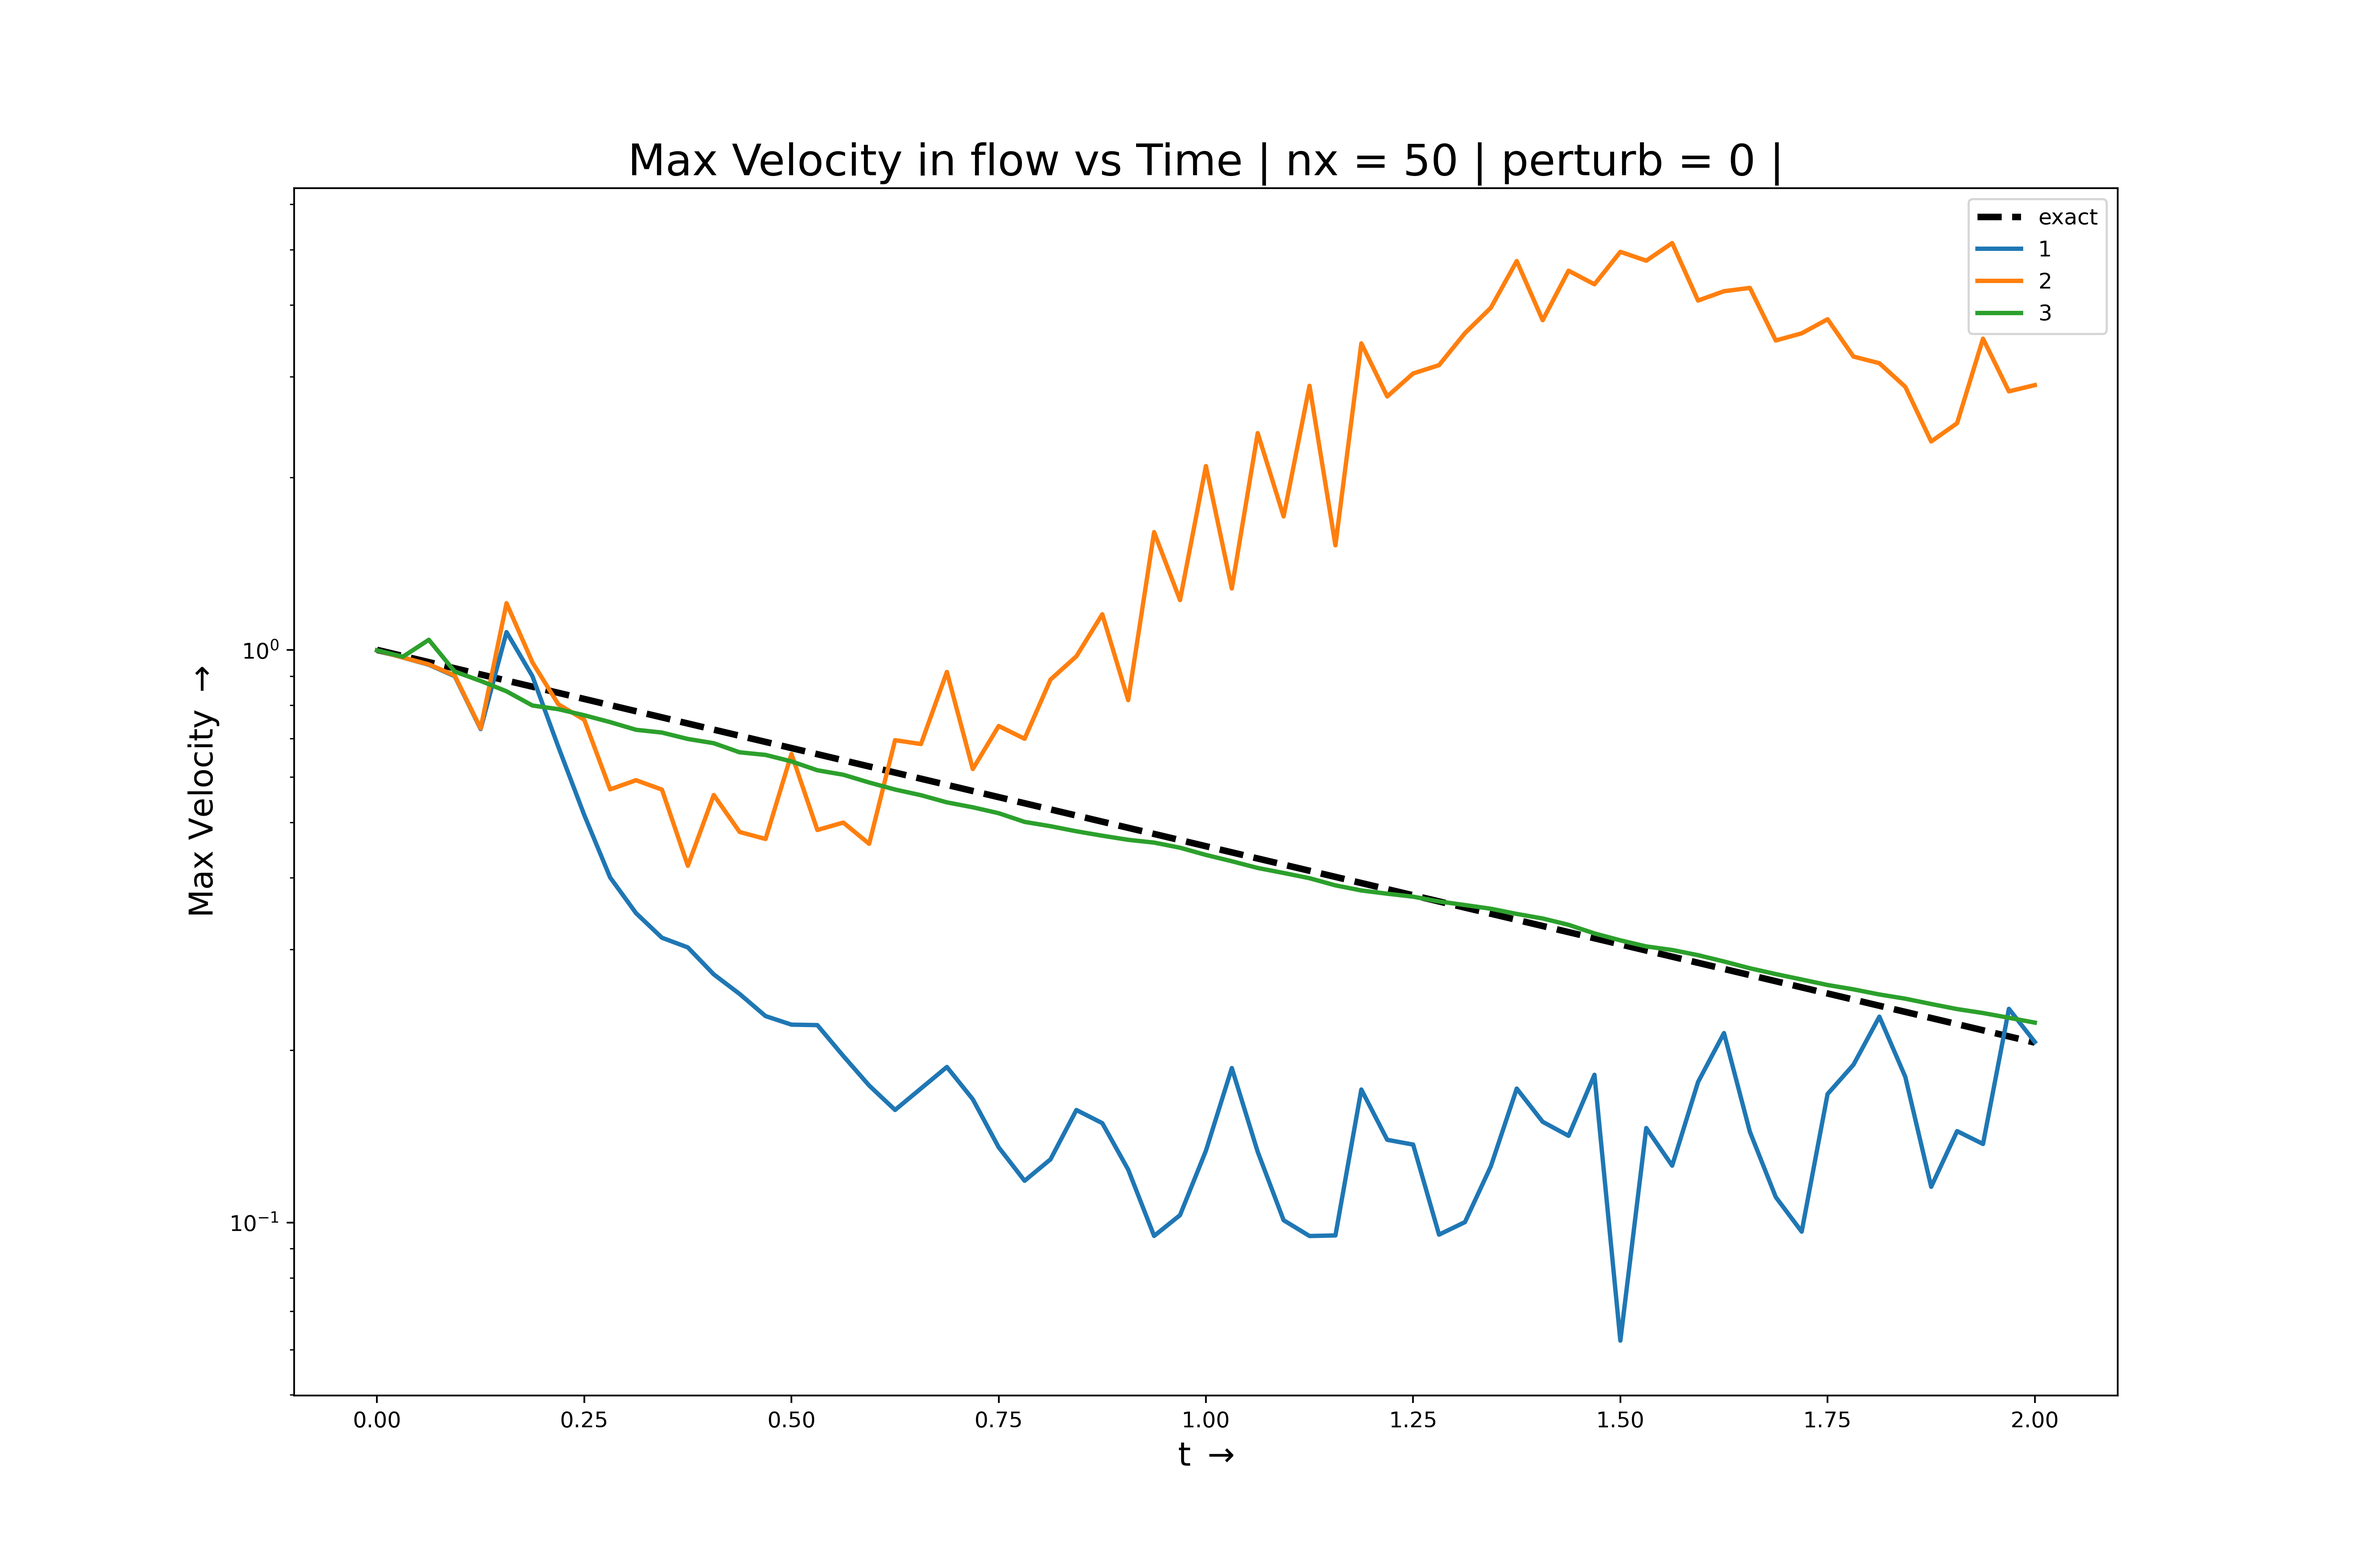
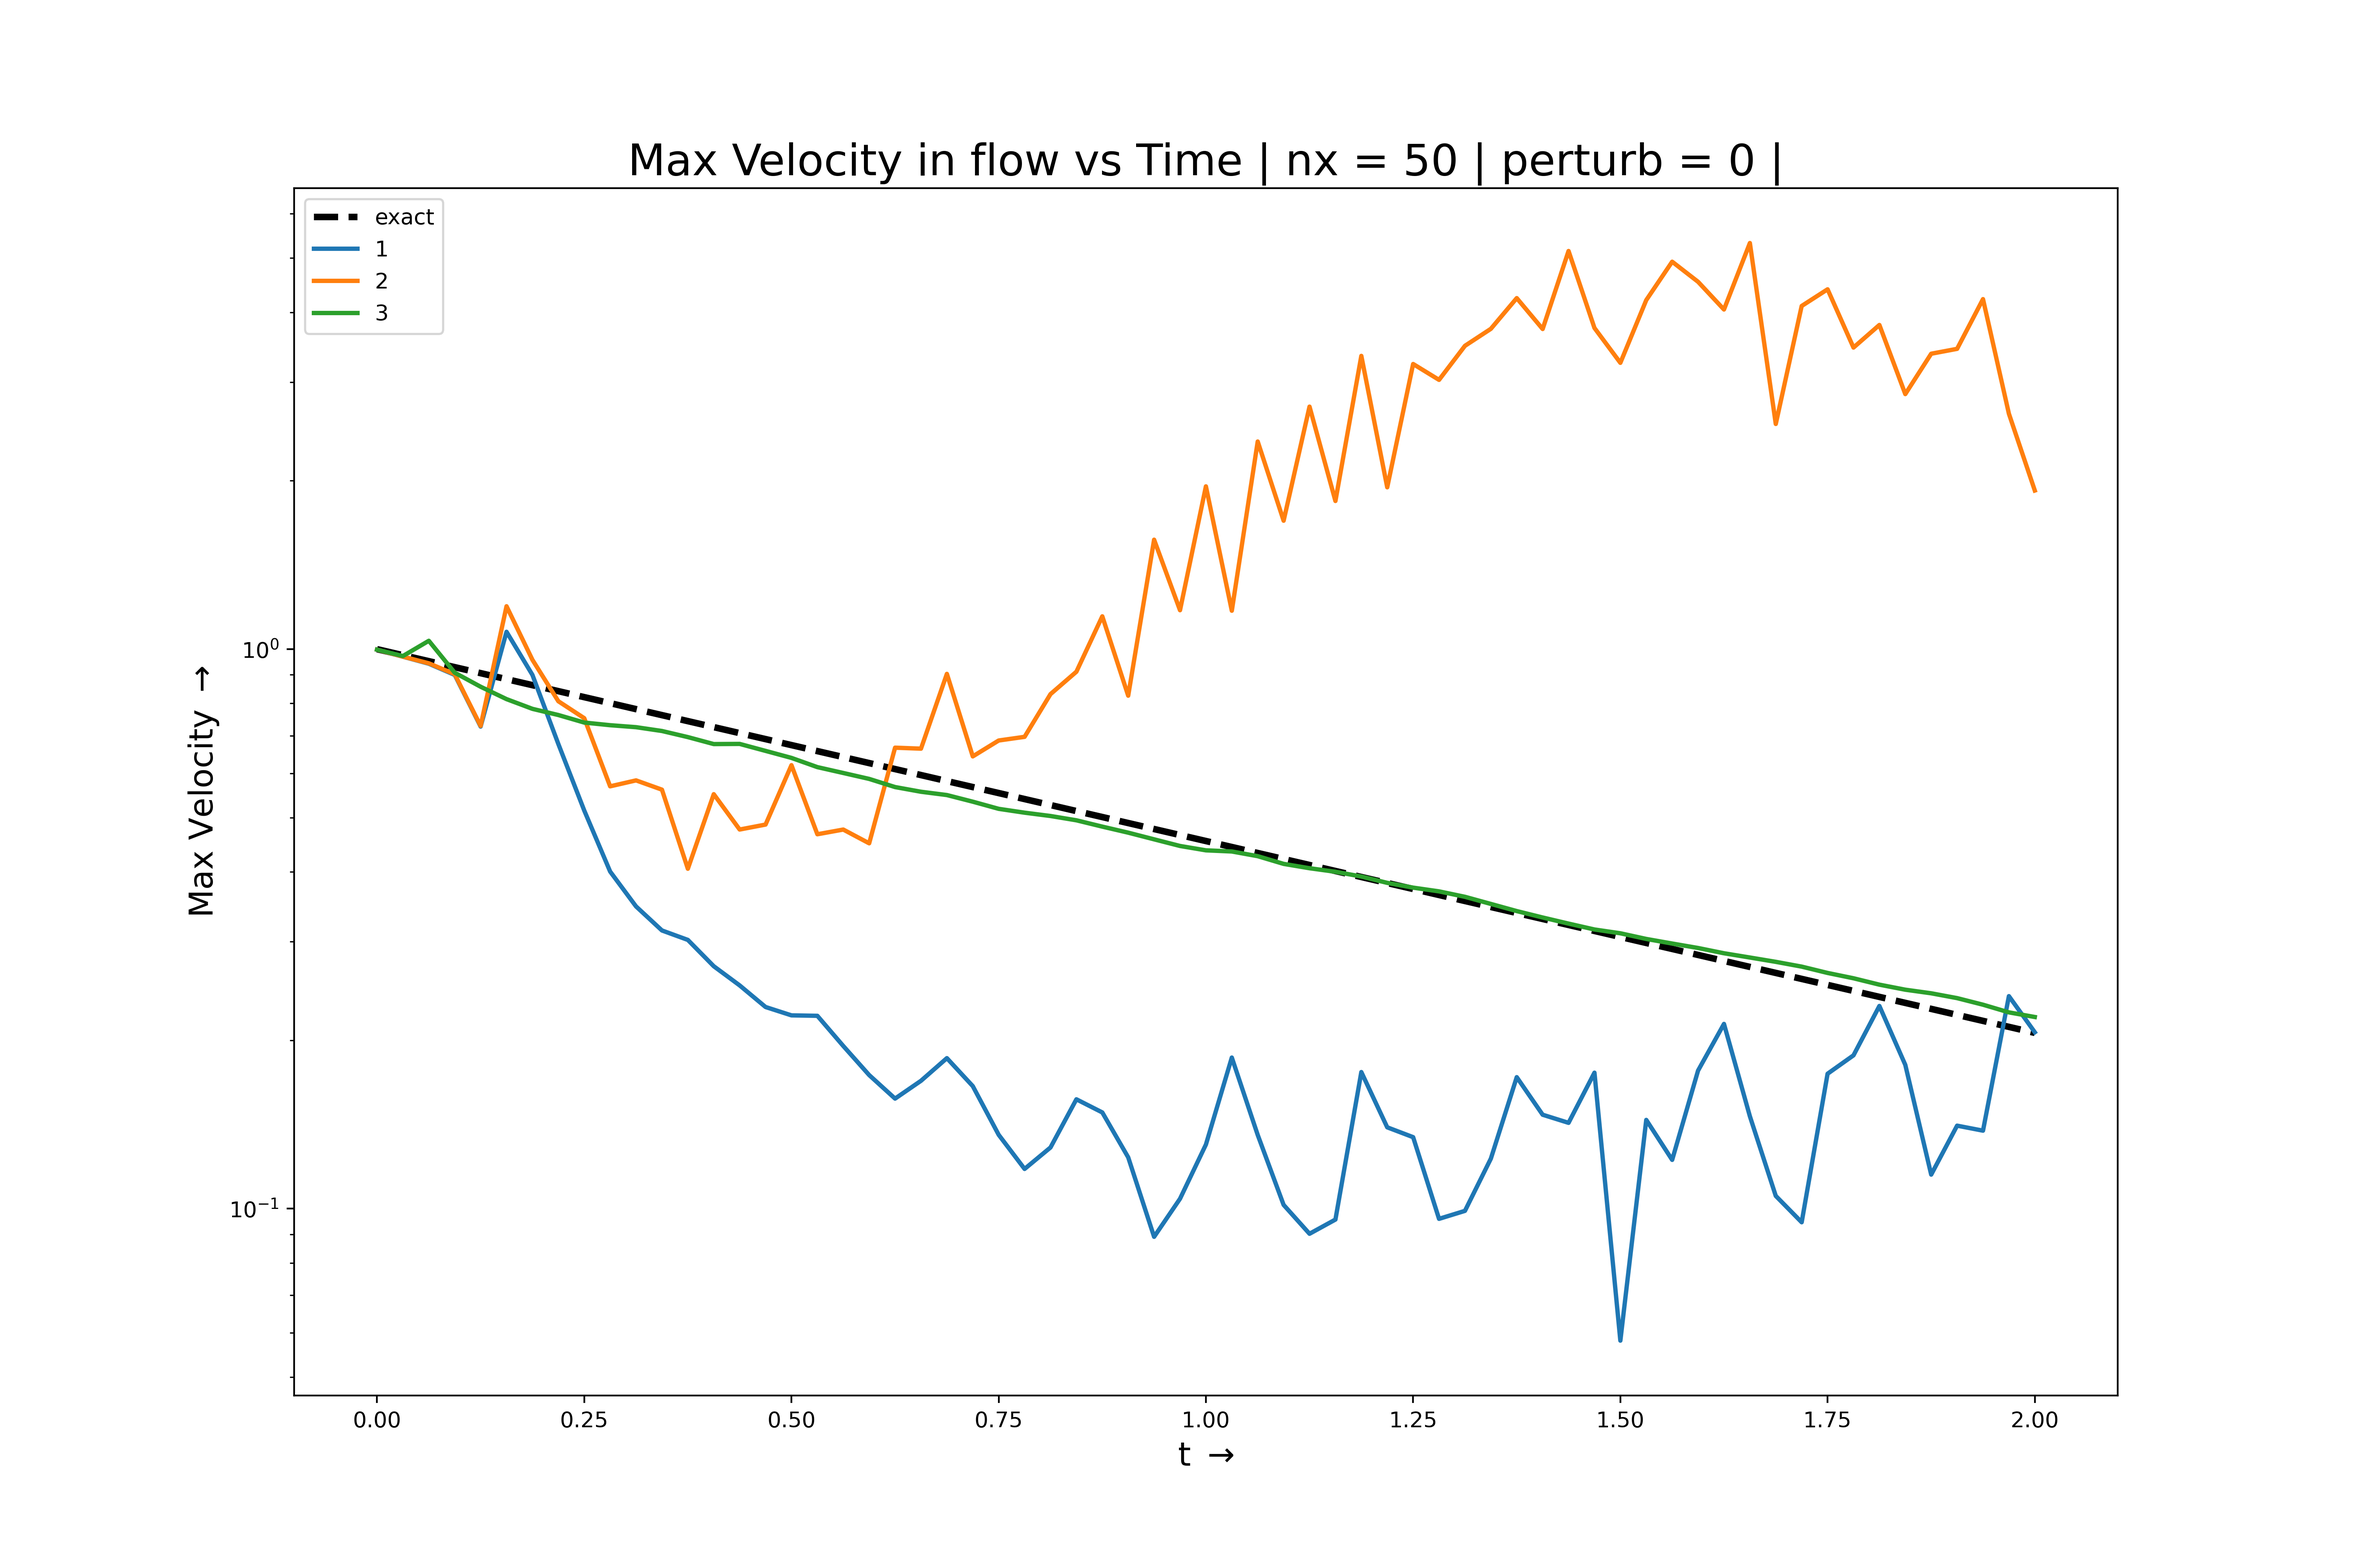
UPDATE: ------------- 1. Fix L_1 error for P plots

diff --git a/SLP/Taylor Green Vortex/Taylor_Green_3.py b/SLP/Taylor Green Vortex/Taylor_Green_3.py
@@ -12,11 +12,12 @@ from pysph.solver.solver import Solver
 
 # PySPH sph imports
 from pysph.sph.equation import Equation, Group, MultiStageEquations
+from pysph.sph.wc.edac import ComputeAveragePressure
 
 # Numpy import
+from numpy import cos, sin, exp, pi
 import numpy as np
 import os
-pi = np.pi
 
 # Include path
 import sys
@@ -39,11 +40,11 @@ from SLP.dpsph.integrator import EulerIntegrator_DPSPH, EulerStep_DPSPH
 
 # Exact Solution - Taylor Green Vortex
 def exact_solution(U, b, t, x, y):
-    factor = U * np.exp(b*t)
+    factor = U * exp(b*t)
 
-    u = -np.cos(2*pi*x) * np.sin(2*pi*y)
-    v = np.sin(2*pi*x) * np.cos(2*pi*y)
-    p = -0.25 * (np.cos(4*pi*x) + np.cos(4*pi*y))
+    u = -cos(2*pi*x) * sin(2*pi*y)
+    v = sin(2*pi*x) * cos(2*pi*y)
+    p = -0.25 * (cos(4*pi*x) + cos(4*pi*y))
 
     return factor * u, factor * v, factor * factor * p
 
@@ -58,11 +59,11 @@ class Taylor_Green(Application):
 
         # Simulation Parameters
         self.nx = 50
-        self.perturb = 0 # Perturbation factor
+        self.perturb = 0.2 # Perturbation factor
         self.re = 100.0
         self.U = 1.0
         self.L = 1.0
-        self.rho0 = 1000.0
+        self.rho0 = 1
 
         self.c0 = 15.0
         self.hdx = 1.0
@@ -214,7 +215,6 @@ class Taylor_Green(Application):
     def _get_sph_evaluator(self, array):
         if not hasattr(self, '_sph_eval'):
             from pysph.tools.sph_evaluator import SPHEvaluator
-            from pysph.sph.wc.edac import ComputeAveragePressure
             equations = [
                 ComputeAveragePressure(dest='fluid', sources=['fluid'])
             ]
@@ -232,7 +232,7 @@ class Taylor_Green(Application):
             return
 
         from pysph.solver.utils import iter_output
-        decay_rate = -8.0 * np.pi**2 / self.re
+        decay_rate = -8.0 * pi**2 / self.re
         U = self.U
 
         files = self.output_files

diff --git a/SLP/Taylor Green Vortex/plot_output.py b/SLP/Taylor Green Vortex/plot_output.py
@@ -7,7 +7,8 @@ nx, perturb = str(int(nx)), str(perturb)
 file_base = '/home/prajwal/Desktop/Winter_Project/SLP-Smoothed-Particle-Hydrodynamics/SLP/Taylor Green Vortex/Output/'
 file_base += 'nx_' + nx + '/perturb_' + perturb
 
-sph_schm = ['edac', 'tvf', 'wcsph', 'dpsph']
+#sph_schm = ['edac', 'tvf', 'wcsph', 'dpsph']
+sph_schm = ['1', '2', '3']
 
 ################################################################################
 ## Plot decay
@@ -27,7 +28,8 @@ for schm in sph_schm:
     t, decay, decay_ex = data['t'], data['decay'], data['decay_ex']
     
     # Plot
-    if schm == 'edac':
+    #if schm == 'edac':
+    if schm == '1':
         plt.semilogy(t, decay_ex, '--k', linewidth=3, label="exact")
     plt.semilogy(t, decay, linewidth=2, label=schm)
     
@@ -131,7 +133,7 @@ plt.savefig(tle, dpi=400)
 ################################################################################
 ## Run-time
 ################################################################################
-
+'''
 nx_low = [54.58, 38.81, 31.11, 35.25]
 nx_high = [98.9, 126.99, 78.52, 97.91]
 x_ax = ['dpsph', 'edac', 'tvf', 'wcsph']
@@ -151,9 +153,4 @@ plt.legend()
 plt.grid()
 tle = 'runtime.png' 
 plt.savefig(tle, dpi=400)
-
-
-
-
-
-
+'''

diff --git a/SLP/Taylor Green Vortex/Taylor_Green.py b/SLP/Taylor Green Vortex/Taylor_Green.py
@@ -94,7 +94,7 @@ class Taylor_Green(Application):
         self.re = 100.0
         self.U = 1.0
         self.L = 1.0
-        self.rho0 = 1000.0
+        self.rho0 = 1
 
         self.c0 = 15.0
         self.hdx = 1.0

diff --git a/SLP/Taylor Green Vortex/Taylor_Green_2.py b/SLP/Taylor Green Vortex/Taylor_Green_2.py
@@ -61,7 +61,7 @@ class Taylor_Green(Application):
         self.re = 100.0
         self.U = 1.0
         self.L = 1.0
-        self.rho0 = 1000.0
+        self.rho0 = 1
 
         self.c0 = 15.0
         self.hdx = 1.0
